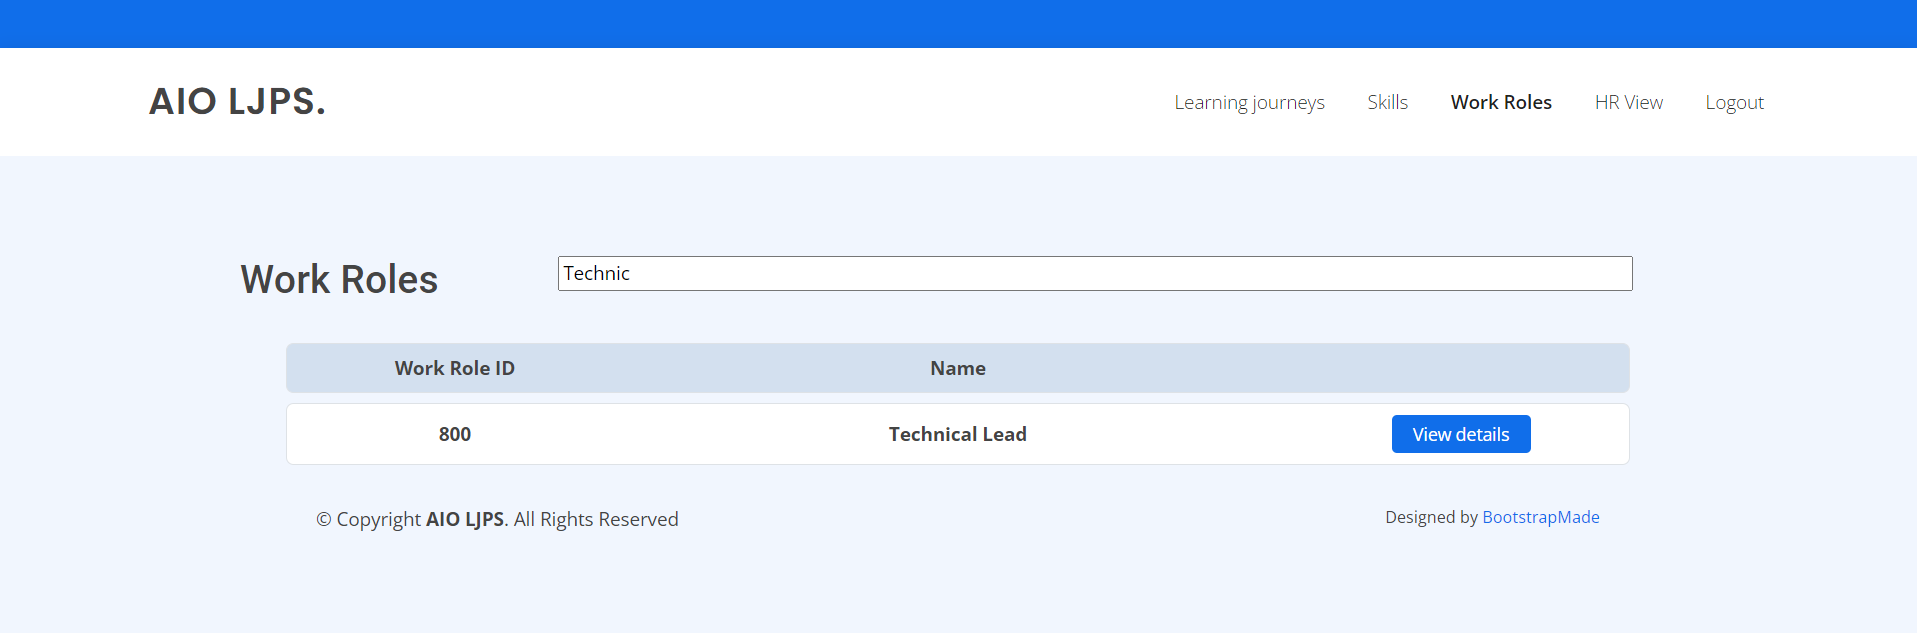
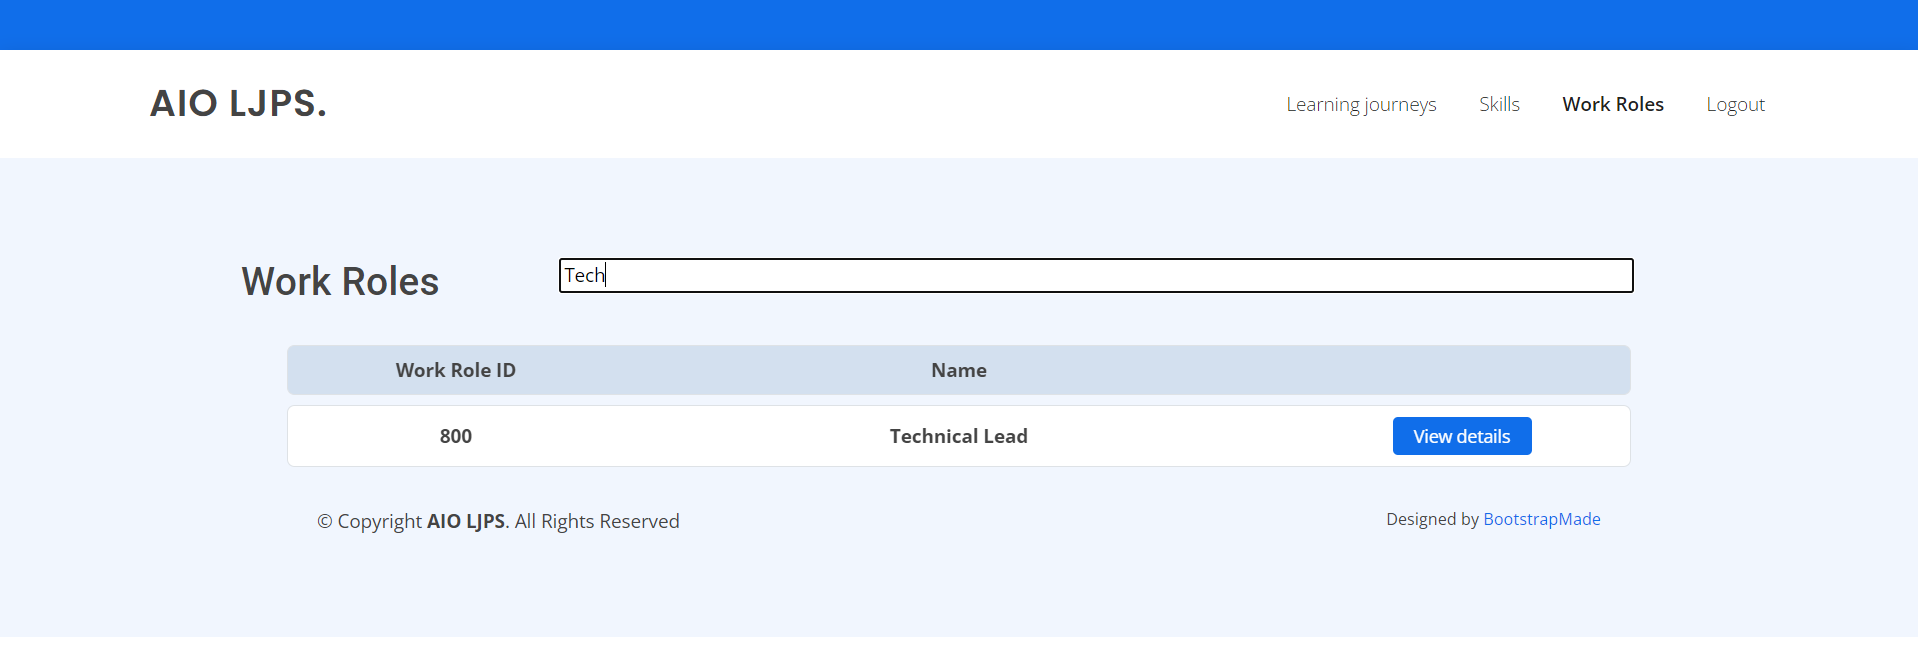
Updated staffWorkRoles page, README and screenshot

diff --git a/Frontend/Staff/staffWorkRoles.html b/Frontend/Staff/staffWorkRoles.html
@@ -47,7 +47,6 @@
           <li><a class="nav-link scrollto fw-light" href="staffViewLearningJourneys.html">Learning journeys</a></li>
           <li><a class="nav-link scrollto fw-light" href="staffSkillsView.html">Skills</a></li>
           <li><a class="nav-link scrollto" href="staffWorkRoles.html">Work Roles</a></li>
-          <li><a class="nav-link scrollto fw-light" href="../HR/hrViewWorkRoles.html">HR View</a></li>
           <li><a class="nav-link scrollto fw-light" href="../Login/login.html">Logout</a></li>
         </ul>
         <i class="bi bi-list mobile-nav-toggle"></i>

diff --git a/README.md b/README.md
@@ -92,6 +92,8 @@ Upon logging in, both HR and Staff will be at the View Learning Journey Respecti
 
 2. If you would like to look for "Technical Lead" Workrole, type in "Tech" in the search bar and you should 
 
+
+
 ## Users should be able to see the courses they can take to acquire those skills, and add/remove them on their learning journey
 
 ### For Staff:
